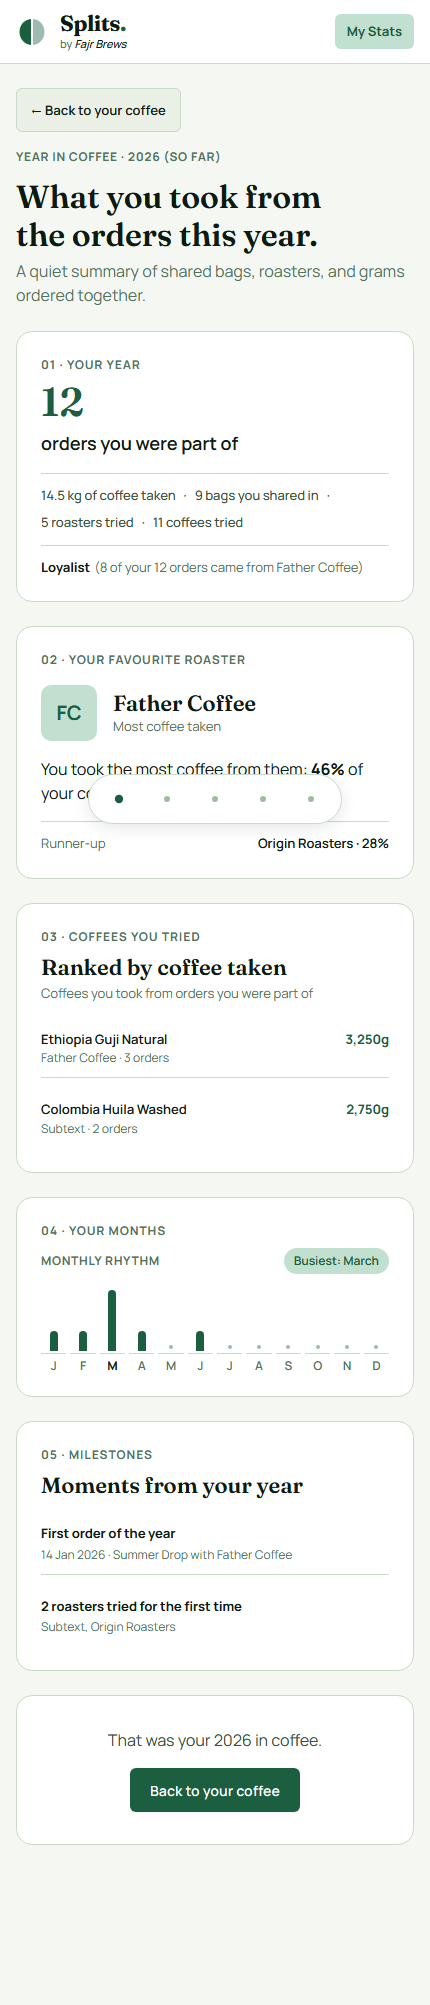
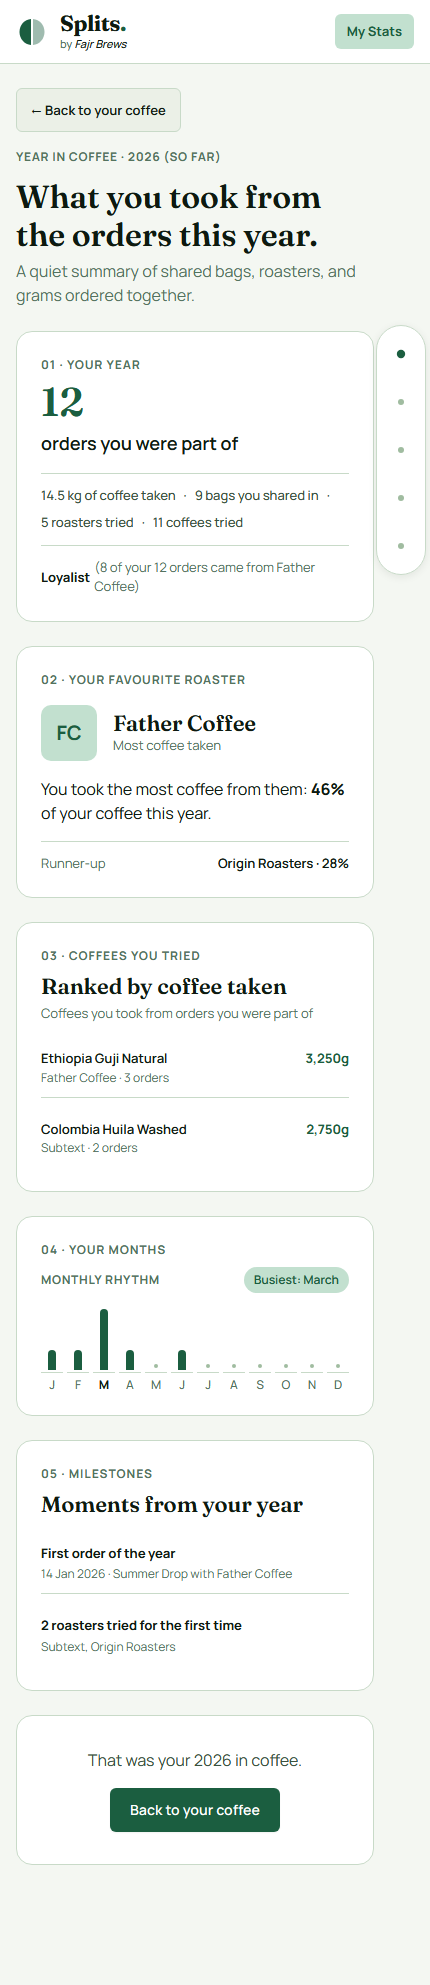
fix(stats): relocate mobile recap dots to margin rail and refine chart label weight

diff --git a/src/styles/stats-phone.css b/src/styles/stats-phone.css
@@ -9,7 +9,7 @@
   .stats-container {
     padding-left: max(var(--space-4), env(safe-area-inset-left));
     padding-right: max(var(--space-4), env(safe-area-inset-right));
-    padding-bottom: calc(var(--space-16) + 72px + env(safe-area-inset-bottom, 0px));
+    padding-bottom: calc(var(--space-16) + 32px + env(safe-area-inset-bottom, 0px));
   }
 
   .stats-order-meta {
@@ -229,6 +229,7 @@
 
   .yic-phone-container {
     position: relative;
+    padding-right: calc(48px + max(var(--space-2), env(safe-area-inset-right)));
   }
 
   .yic-phone-scroll {
@@ -244,19 +245,19 @@
 
   .yic-dots-indicator {
     position: fixed;
-    bottom: calc(76px + env(safe-area-inset-bottom, 0px));
-    left: 50%;
-    transform: translateX(-50%);
+    right: max(var(--space-1), env(safe-area-inset-right));
+    top: 50%;
+    transform: translateY(-50%);
     display: flex;
-    flex-direction: row;
+    flex-direction: column;
     align-items: center;
     gap: 4px;
     z-index: var(--z-sticky, 40);
-    padding: 2px 8px;
+    padding: 6px 2px;
     background: var(--color-surface);
     border: 1px solid var(--color-border);
     border-radius: var(--radius-full);
-    box-shadow: var(--shadow-md);
+    box-shadow: var(--shadow-sm);
   }
 
   .yic-dot-btn {

diff --git a/src/styles/stats.css b/src/styles/stats.css
@@ -309,7 +309,7 @@
 .stats-month-label {
   margin-top: 6px;
   font-size: var(--text-xs);
-  font-weight: 600;
+  font-weight: 500;
   color: var(--color-text-muted);
   line-height: 1;
   text-align: center;
